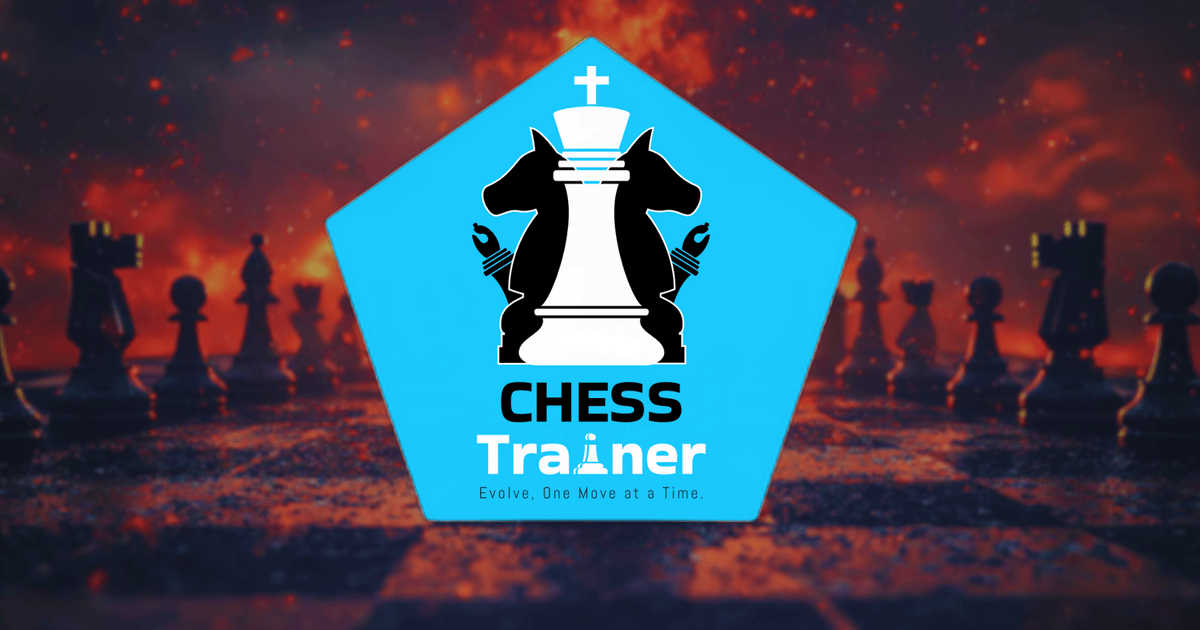
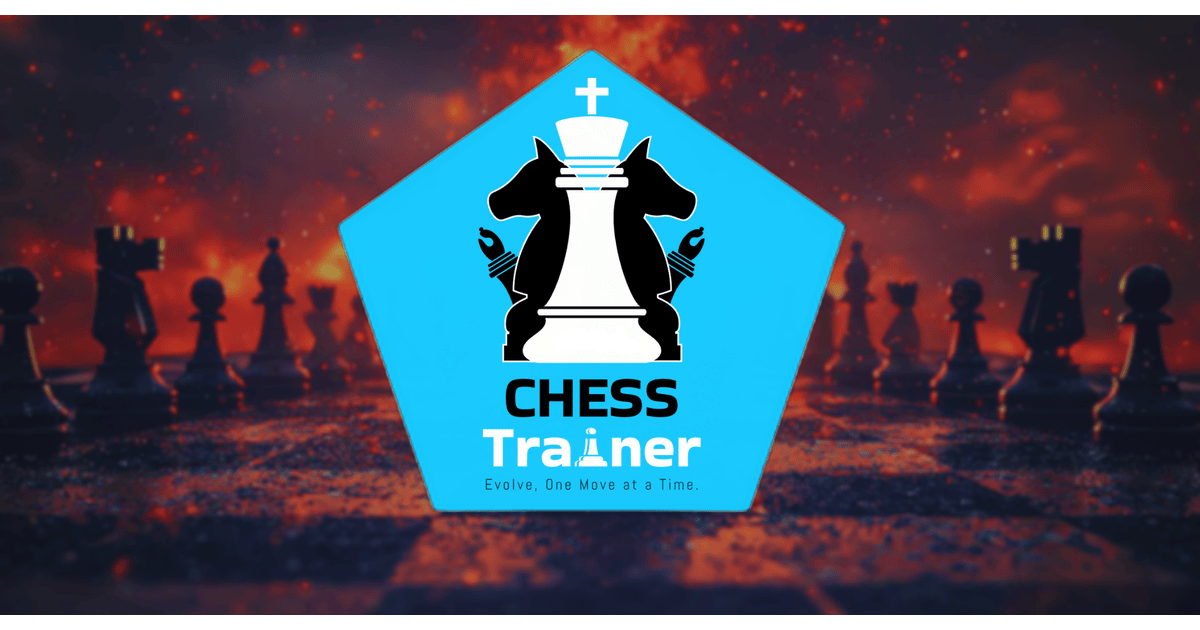
og compr

diff --git a/index.html b/index.html
@@ -18,9 +18,12 @@
       content="Master chess with our interactive training platform designed for learners of all levels. Sharpen your skills, solve puzzles, and elevate your strategy."
     />
 
-    <meta property="og:image" content="images/og_cover.png" />
+    <meta
+      property="og:image"
+      content="chess.sunil-bhattarai.com.np/images/og_cover-min.png"
+    />
     <meta property="og:type" content="website" />
-    <link rel="icon" href="images/og_icon.png" type="image/png" />
+    <link rel="icon" href="images/og_icon-min.png" type="image/png" />
     <title>Chess Opening Trainer</title>
     <link rel="stylesheet" href="styles.css" />
     <link
